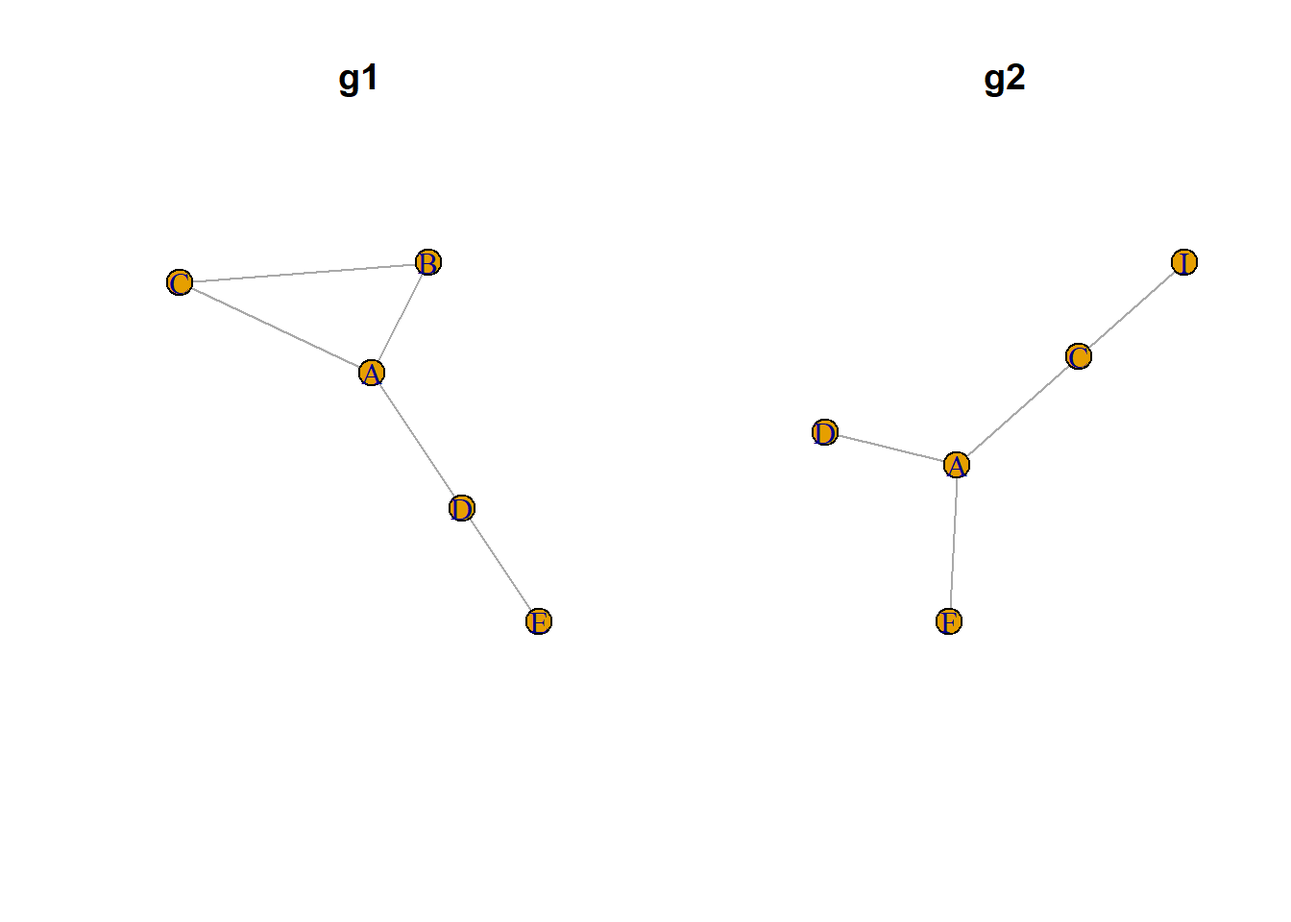
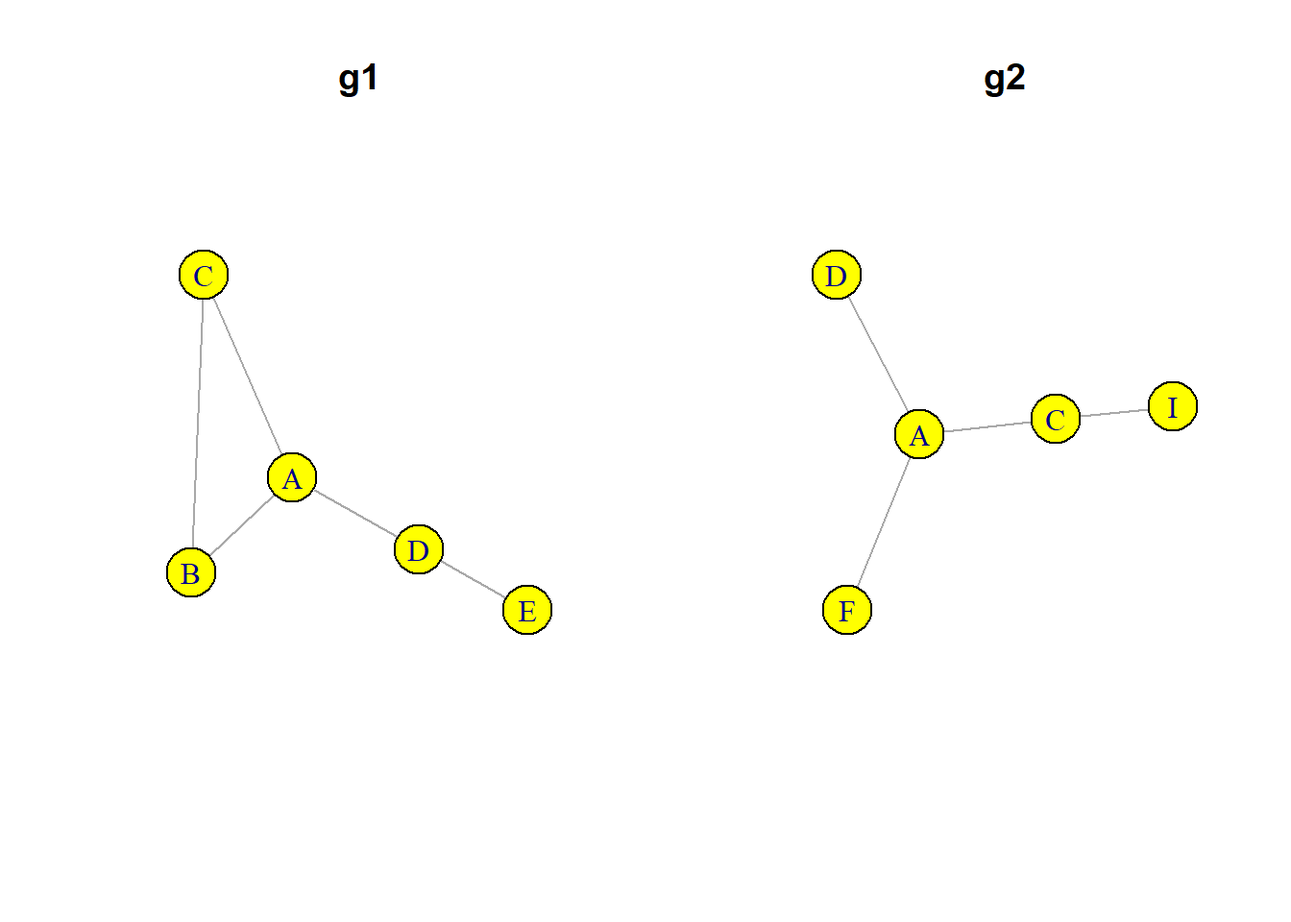
test quarto

diff --git a/2023_05_combi-igraph.html b/2023_05_combi-igraph.html
@@ -98,6 +98,7 @@ code span.wa { color: #60a0b0; font-weight: bold; font-style: italic; } /* Warni
 <link href="2023_05_combi-igraph_files/libs/bootstrap/bootstrap-icons.css" rel="stylesheet">
 <link href="2023_05_combi-igraph_files/libs/bootstrap/bootstrap.min.css" rel="stylesheet" id="quarto-bootstrap" data-mode="light">
 
+  <script src="https://cdn.jsdelivr.net/npm/mathjax@3/es5/tex-chtml-full.js" type="text/javascript"></script>
 
 </head>
 
@@ -130,15 +131,15 @@ code span.wa { color: #60a0b0; font-weight: bold; font-style: italic; } /* Warni
 
 </header>
 
-<p>Actualisation d’un billet de juin 2015 posté sur (https://groupefmr.hypotheses.org)</p>
-<section id="deux-réseaux" class="level2">
-<h2 class="anchored" data-anchor-id="deux-réseaux">Deux réseaux</h2>
+<p><em>Actualisation d’un billet de juin 2015 posté sur (https://groupefmr.hypotheses.org)</em></p>
+<p>Ce tutoriel décrit les fonctions d’<code>igraph</code> permet de combiner deux réseaux ayant <em>a minima</em> un sommet commun.</p>
+<p>Soit deux petits réseaux non orientés ayant trois sommets (A, C, D) et deux liens (AC, AD) en commun.</p>
 <div class="cell">
 <div class="sourceCode cell-code" id="cb1"><pre class="sourceCode r code-with-copy"><code class="sourceCode r"><span id="cb1-1"><a href="#cb1-1" aria-hidden="true" tabindex="-1"></a><span class="co"># Chargement du package</span></span>
 <span id="cb1-2"><a href="#cb1-2" aria-hidden="true" tabindex="-1"></a><span class="co"># install.packages("igraph")</span></span>
 <span id="cb1-3"><a href="#cb1-3" aria-hidden="true" tabindex="-1"></a><span class="fu">library</span>(igraph)</span>
 <span id="cb1-4"><a href="#cb1-4" aria-hidden="true" tabindex="-1"></a></span>
-<span id="cb1-5"><a href="#cb1-5" aria-hidden="true" tabindex="-1"></a><span class="co">#création des deux graphes</span></span>
+<span id="cb1-5"><a href="#cb1-5" aria-hidden="true" tabindex="-1"></a><span class="co"># Création des deux réseaux</span></span>
 <span id="cb1-6"><a href="#cb1-6" aria-hidden="true" tabindex="-1"></a>d1 <span class="ot">&lt;-</span> <span class="fu">rbind</span>(<span class="fu">c</span>(<span class="st">"A"</span>,<span class="st">"B"</span>),<span class="fu">c</span>(<span class="st">"A"</span>,<span class="st">"C"</span>), <span class="fu">c</span>(<span class="st">"B"</span>,<span class="st">"C"</span>), <span class="fu">c</span>(<span class="st">"A"</span>,<span class="st">"D"</span>), <span class="fu">c</span>(<span class="st">"D"</span>,<span class="st">"E"</span>))</span>
 <span id="cb1-7"><a href="#cb1-7" aria-hidden="true" tabindex="-1"></a>d2 <span class="ot">&lt;-</span> <span class="fu">rbind</span>(<span class="fu">c</span>(<span class="st">"A"</span>,<span class="st">"F"</span>), <span class="fu">c</span>(<span class="st">"A"</span>,<span class="st">"D"</span>), <span class="fu">c</span>(<span class="st">"A"</span>,<span class="st">"C"</span>), <span class="fu">c</span>(<span class="st">"C"</span>,<span class="st">"I"</span>))</span>
 <span id="cb1-8"><a href="#cb1-8" aria-hidden="true" tabindex="-1"></a></span>
@@ -147,8 +148,8 @@ code span.wa { color: #60a0b0; font-weight: bold; font-style: italic; } /* Warni
 <span id="cb1-11"><a href="#cb1-11" aria-hidden="true" tabindex="-1"></a></span>
 <span id="cb1-12"><a href="#cb1-12" aria-hidden="true" tabindex="-1"></a><span class="co">#visualisation</span></span>
 <span id="cb1-13"><a href="#cb1-13" aria-hidden="true" tabindex="-1"></a><span class="fu">par</span>(<span class="at">mfrow =</span> <span class="fu">c</span>(<span class="dv">1</span>,<span class="dv">2</span>))</span>
-<span id="cb1-14"><a href="#cb1-14" aria-hidden="true" tabindex="-1"></a><span class="fu">plot</span>(g1, <span class="at">main =</span> <span class="st">"g1"</span>)</span>
-<span id="cb1-15"><a href="#cb1-15" aria-hidden="true" tabindex="-1"></a><span class="fu">plot</span>(g2, <span class="at">main =</span> <span class="st">"g2"</span>)</span></code><button title="Copy to Clipboard" class="code-copy-button"><i class="bi"></i></button></pre></div>
+<span id="cb1-14"><a href="#cb1-14" aria-hidden="true" tabindex="-1"></a><span class="fu">plot</span>(g1, <span class="at">vertex.color =</span> <span class="st">"yellow"</span>, <span class="at">vertex.size =</span> <span class="dv">30</span>, <span class="at">main =</span> <span class="st">"g1"</span>)</span>
+<span id="cb1-15"><a href="#cb1-15" aria-hidden="true" tabindex="-1"></a><span class="fu">plot</span>(g2, <span class="at">vertex.color =</span> <span class="st">"yellow"</span>, <span class="at">vertex.size =</span> <span class="dv">30</span>, <span class="at">main =</span> <span class="st">"g2"</span>)</span></code><button title="Copy to Clipboard" class="code-copy-button"><i class="bi"></i></button></pre></div>
 <div class="cell-output-display">
 <p><img src="2023_05_combi-igraph_files/figure-html/unnamed-chunk-1-1.png" class="img-fluid" width="672"></p>
 </div>
@@ -159,106 +160,106 @@ code span.wa { color: #60a0b0; font-weight: bold; font-style: italic; } /* Warni
           1 </code></pre>
 </div>
 </div>
+<p>J’ajoute des attributs à ces deux réseaux : le degré des sommets, l’intermédiarité des liens et la densité du réseau.</p>
 <div class="cell">
-<div class="sourceCode cell-code" id="cb3"><pre class="sourceCode r code-with-copy"><code class="sourceCode r"><span id="cb3-1"><a href="#cb3-1" aria-hidden="true" tabindex="-1"></a><span class="co">#3 points communs (ACD) et deux liens communs (AD et AC)</span></span>
-<span id="cb3-2"><a href="#cb3-2" aria-hidden="true" tabindex="-1"></a></span>
-<span id="cb3-3"><a href="#cb3-3" aria-hidden="true" tabindex="-1"></a><span class="co">#ajout d'attributs : degré des sommets</span></span>
-<span id="cb3-4"><a href="#cb3-4" aria-hidden="true" tabindex="-1"></a><span class="fu">V</span>(g1)<span class="sc">$</span>degree <span class="ot">&lt;-</span>  <span class="fu">degree</span>(g1)</span>
-<span id="cb3-5"><a href="#cb3-5" aria-hidden="true" tabindex="-1"></a><span class="fu">V</span>(g2)<span class="sc">$</span>degree <span class="ot">&lt;-</span> <span class="fu">degree</span>(g2)</span>
+<div class="sourceCode cell-code" id="cb3"><pre class="sourceCode r code-with-copy"><code class="sourceCode r"><span id="cb3-1"><a href="#cb3-1" aria-hidden="true" tabindex="-1"></a><span class="fu">V</span>(g1)<span class="sc">$</span>degree <span class="ot">&lt;-</span>  <span class="fu">degree</span>(g1)</span>
+<span id="cb3-2"><a href="#cb3-2" aria-hidden="true" tabindex="-1"></a><span class="fu">V</span>(g2)<span class="sc">$</span>degree <span class="ot">&lt;-</span> <span class="fu">degree</span>(g2)</span>
+<span id="cb3-3"><a href="#cb3-3" aria-hidden="true" tabindex="-1"></a></span>
+<span id="cb3-4"><a href="#cb3-4" aria-hidden="true" tabindex="-1"></a><span class="fu">E</span>(g1)<span class="sc">$</span>between <span class="ot">&lt;-</span> <span class="fu">edge.betweenness</span>(g1)</span>
+<span id="cb3-5"><a href="#cb3-5" aria-hidden="true" tabindex="-1"></a><span class="fu">E</span>(g2)<span class="sc">$</span>between <span class="ot">&lt;-</span> <span class="fu">edge.betweenness</span>(g2)</span>
 <span id="cb3-6"><a href="#cb3-6" aria-hidden="true" tabindex="-1"></a></span>
-<span id="cb3-7"><a href="#cb3-7" aria-hidden="true" tabindex="-1"></a><span class="co">#ajout d'attributs aux liens (intermédiarité)</span></span>
-<span id="cb3-8"><a href="#cb3-8" aria-hidden="true" tabindex="-1"></a><span class="fu">E</span>(g1)<span class="sc">$</span>between <span class="ot">&lt;-</span> <span class="fu">edge.betweenness</span>(g1)</span>
-<span id="cb3-9"><a href="#cb3-9" aria-hidden="true" tabindex="-1"></a><span class="fu">E</span>(g2)<span class="sc">$</span>between <span class="ot">&lt;-</span> <span class="fu">edge.betweenness</span>(g2)</span>
-<span id="cb3-10"><a href="#cb3-10" aria-hidden="true" tabindex="-1"></a></span>
-<span id="cb3-11"><a href="#cb3-11" aria-hidden="true" tabindex="-1"></a><span class="co"># ajout d'attributs au réseau : densité</span></span>
-<span id="cb3-12"><a href="#cb3-12" aria-hidden="true" tabindex="-1"></a>g1<span class="sc">$</span>densite <span class="ot">&lt;-</span> <span class="fu">graph.density</span>(g1)</span>
-<span id="cb3-13"><a href="#cb3-13" aria-hidden="true" tabindex="-1"></a>g2<span class="sc">$</span>densite <span class="ot">&lt;-</span> <span class="fu">graph.density</span>(g2)</span>
-<span id="cb3-14"><a href="#cb3-14" aria-hidden="true" tabindex="-1"></a></span>
-<span id="cb3-15"><a href="#cb3-15" aria-hidden="true" tabindex="-1"></a><span class="co"># fonction complementer</span></span>
-<span id="cb3-16"><a href="#cb3-16" aria-hidden="true" tabindex="-1"></a><span class="co"># crée un graphe avec les liens absents du graphe de départ</span></span>
-<span id="cb3-17"><a href="#cb3-17" aria-hidden="true" tabindex="-1"></a><span class="co"># les liens présents au départ sont eux supprimés</span></span>
-<span id="cb3-18"><a href="#cb3-18" aria-hidden="true" tabindex="-1"></a>compg1 <span class="ot">&lt;-</span> <span class="fu">graph.complementer</span>(g1, <span class="at">loops =</span> <span class="cn">FALSE</span>)</span>
-<span id="cb3-19"><a href="#cb3-19" aria-hidden="true" tabindex="-1"></a><span class="fu">plot</span>(compg1)</span></code><button title="Copy to Clipboard" class="code-copy-button"><i class="bi"></i></button></pre></div>
-<div class="cell-output-display">
-<p><img src="2023_05_combi-igraph_files/figure-html/unnamed-chunk-3-1.png" class="img-fluid" width="672"></p>
+<span id="cb3-7"><a href="#cb3-7" aria-hidden="true" tabindex="-1"></a>g1<span class="sc">$</span>densite <span class="ot">&lt;-</span> <span class="fu">graph.density</span>(g1)</span>
+<span id="cb3-8"><a href="#cb3-8" aria-hidden="true" tabindex="-1"></a>g2<span class="sc">$</span>densite <span class="ot">&lt;-</span> <span class="fu">graph.density</span>(g2)</span></code><button title="Copy to Clipboard" class="code-copy-button"><i class="bi"></i></button></pre></div>
 </div>
-<div class="sourceCode cell-code" id="cb4"><pre class="sourceCode r code-with-copy"><code class="sourceCode r"><span id="cb4-1"><a href="#cb4-1" aria-hidden="true" tabindex="-1"></a><span class="co">#les attributs des sommets et du graphe sont conservés</span></span>
-<span id="cb4-2"><a href="#cb4-2" aria-hidden="true" tabindex="-1"></a><span class="co">#les attributs des liens sont perdus</span></span>
-<span id="cb4-3"><a href="#cb4-3" aria-hidden="true" tabindex="-1"></a><span class="fu">V</span>(compg1)<span class="sc">$</span>degree</span></code><button title="Copy to Clipboard" class="code-copy-button"><i class="bi"></i></button></pre></div>
+<p>La fonction <code>complementer</code> permet de créer le graphe complémentaire (ou inverse) d’un graphe. Le graphe complémentaire <span class="math inline">\(G'\)</span> du graphe <span class="math inline">\(G\)</span> a les mêmes sommets ; deux sommets de <span class="math inline">\(G'\)</span> sont adjacents si et seulement si ils ne sont pas adjacents dans <span class="math inline">\(G\)</span>. Ceci peut être utile quand on étudie des réseaux denses pour mettre en évidence l’absence de relation.</p>
+<div class="cell">
+<div class="sourceCode cell-code" id="cb4"><pre class="sourceCode r code-with-copy"><code class="sourceCode r"><span id="cb4-1"><a href="#cb4-1" aria-hidden="true" tabindex="-1"></a><span class="co"># fonction complementer</span></span>
+<span id="cb4-2"><a href="#cb4-2" aria-hidden="true" tabindex="-1"></a><span class="co"># crée un graphe avec les liens absents du graphe de départ</span></span>
+<span id="cb4-3"><a href="#cb4-3" aria-hidden="true" tabindex="-1"></a><span class="co"># les liens présents au départ sont eux supprimés</span></span>
+<span id="cb4-4"><a href="#cb4-4" aria-hidden="true" tabindex="-1"></a>compg1 <span class="ot">&lt;-</span> <span class="fu">graph.complementer</span>(g1, <span class="at">loops =</span> <span class="cn">FALSE</span>)</span>
+<span id="cb4-5"><a href="#cb4-5" aria-hidden="true" tabindex="-1"></a><span class="fu">plot</span>(compg1)</span></code><button title="Copy to Clipboard" class="code-copy-button"><i class="bi"></i></button></pre></div>
+<div class="cell-output-display">
+<p><img src="2023_05_combi-igraph_files/figure-html/unnamed-chunk-4-1.png" class="img-fluid" width="672"></p>
+</div>
+<div class="sourceCode cell-code" id="cb5"><pre class="sourceCode r code-with-copy"><code class="sourceCode r"><span id="cb5-1"><a href="#cb5-1" aria-hidden="true" tabindex="-1"></a><span class="co">#les attributs des sommets et du graphe sont conservés</span></span>
+<span id="cb5-2"><a href="#cb5-2" aria-hidden="true" tabindex="-1"></a><span class="co">#les attributs des liens sont perdus</span></span>
+<span id="cb5-3"><a href="#cb5-3" aria-hidden="true" tabindex="-1"></a><span class="fu">V</span>(compg1)<span class="sc">$</span>degree</span></code><button title="Copy to Clipboard" class="code-copy-button"><i class="bi"></i></button></pre></div>
 <div class="cell-output cell-output-stdout">
 <pre><code>[1] 3 2 2 2 1</code></pre>
 </div>
-<div class="sourceCode cell-code" id="cb6"><pre class="sourceCode r code-with-copy"><code class="sourceCode r"><span id="cb6-1"><a href="#cb6-1" aria-hidden="true" tabindex="-1"></a>compg1</span></code><button title="Copy to Clipboard" class="code-copy-button"><i class="bi"></i></button></pre></div>
+<div class="sourceCode cell-code" id="cb7"><pre class="sourceCode r code-with-copy"><code class="sourceCode r"><span id="cb7-1"><a href="#cb7-1" aria-hidden="true" tabindex="-1"></a>compg1</span></code><button title="Copy to Clipboard" class="code-copy-button"><i class="bi"></i></button></pre></div>
 <div class="cell-output cell-output-stdout">
-<pre><code>IGRAPH 840543b UN-- 5 5 -- 
+<pre><code>IGRAPH da2417b UN-- 5 5 -- 
 + attr: densite (g/n), name (v/c), degree (v/n)
-+ edges from 840543b (vertex names):
++ edges from da2417b (vertex names):
 [1] A--E B--E B--D D--C C--E</code></pre>
 </div>
-<div class="sourceCode cell-code" id="cb8"><pre class="sourceCode r code-with-copy"><code class="sourceCode r"><span id="cb8-1"><a href="#cb8-1" aria-hidden="true" tabindex="-1"></a><span class="co">#fonction graph.difference premier réseau - deuxième réseau (opérateur %m%)</span></span>
-<span id="cb8-2"><a href="#cb8-2" aria-hidden="true" tabindex="-1"></a><span class="co">#seuls les liens présents dans le premier réseau et non dans le deuxième sont conservés</span></span>
-<span id="cb8-3"><a href="#cb8-3" aria-hidden="true" tabindex="-1"></a><span class="co">#tous les attributs du premier réseau sont gardés</span></span>
-<span id="cb8-4"><a href="#cb8-4" aria-hidden="true" tabindex="-1"></a>diffg1 <span class="ot">&lt;-</span> <span class="fu">graph.difference</span>(g1, g2)</span>
-<span id="cb8-5"><a href="#cb8-5" aria-hidden="true" tabindex="-1"></a>diffg1</span></code><button title="Copy to Clipboard" class="code-copy-button"><i class="bi"></i></button></pre></div>
+<div class="sourceCode cell-code" id="cb9"><pre class="sourceCode r code-with-copy"><code class="sourceCode r"><span id="cb9-1"><a href="#cb9-1" aria-hidden="true" tabindex="-1"></a><span class="co">#fonction graph.difference premier réseau - deuxième réseau (opérateur %m%)</span></span>
+<span id="cb9-2"><a href="#cb9-2" aria-hidden="true" tabindex="-1"></a><span class="co">#seuls les liens présents dans le premier réseau et non dans le deuxième sont conservés</span></span>
+<span id="cb9-3"><a href="#cb9-3" aria-hidden="true" tabindex="-1"></a><span class="co">#tous les attributs du premier réseau sont gardés</span></span>
+<span id="cb9-4"><a href="#cb9-4" aria-hidden="true" tabindex="-1"></a>diffg1 <span class="ot">&lt;-</span> <span class="fu">graph.difference</span>(g1, g2)</span>
+<span id="cb9-5"><a href="#cb9-5" aria-hidden="true" tabindex="-1"></a>diffg1</span></code><button title="Copy to Clipboard" class="code-copy-button"><i class="bi"></i></button></pre></div>
 <div class="cell-output cell-output-stdout">
-<pre><code>IGRAPH 8407202 UN-- 5 3 -- 
+<pre><code>IGRAPH da25f88 UN-- 5 3 -- 
 + attr: densite (g/n), name (v/c), degree (v/n), between (e/n)
-+ edges from 8407202 (vertex names):
++ edges from da25f88 (vertex names):
 [1] A--B B--C D--E</code></pre>
 </div>
-<div class="sourceCode cell-code" id="cb10"><pre class="sourceCode r code-with-copy"><code class="sourceCode r"><span id="cb10-1"><a href="#cb10-1" aria-hidden="true" tabindex="-1"></a>diffg2 <span class="ot">&lt;-</span> <span class="fu">graph.difference</span>(g2, g1)</span>
-<span id="cb10-2"><a href="#cb10-2" aria-hidden="true" tabindex="-1"></a></span>
-<span id="cb10-3"><a href="#cb10-3" aria-hidden="true" tabindex="-1"></a><span class="co"># coordonnées (quasi) identiques pour faciliter la comparaison</span></span>
-<span id="cb10-4"><a href="#cb10-4" aria-hidden="true" tabindex="-1"></a>lay <span class="ot">&lt;-</span> <span class="fu">layout.fruchterman.reingold</span>(g1)</span>
-<span id="cb10-5"><a href="#cb10-5" aria-hidden="true" tabindex="-1"></a></span>
-<span id="cb10-6"><a href="#cb10-6" aria-hidden="true" tabindex="-1"></a><span class="co"># lien A-D présent dans g1 et g2 donc g1-g2 et g2-g1 entrainent sa disparition</span></span>
-<span id="cb10-7"><a href="#cb10-7" aria-hidden="true" tabindex="-1"></a><span class="fu">par</span>(<span class="at">mfrow =</span> <span class="fu">c</span>(<span class="dv">2</span>,<span class="dv">2</span>))</span>
-<span id="cb10-8"><a href="#cb10-8" aria-hidden="true" tabindex="-1"></a><span class="fu">plot</span>(g1, <span class="at">main =</span> <span class="st">"g1"</span>, <span class="at">layout =</span> lay, <span class="at">vertex.color =</span> <span class="st">"red"</span>, <span class="at">vertex.size =</span> <span class="dv">20</span>, <span class="at">vertex.label.dist =</span><span class="dv">3</span>)</span>
-<span id="cb10-9"><a href="#cb10-9" aria-hidden="true" tabindex="-1"></a><span class="fu">plot</span>(g2, <span class="at">main =</span> <span class="st">"g2"</span>, <span class="at">layout =</span> lay, <span class="at">vertex.color =</span> <span class="st">"red"</span>, <span class="at">vertex.size =</span> <span class="dv">20</span>, <span class="at">vertex.label.dist =</span><span class="dv">3</span>)</span>
-<span id="cb10-10"><a href="#cb10-10" aria-hidden="true" tabindex="-1"></a><span class="fu">plot</span>(diffg1, <span class="at">main =</span> <span class="st">"graph.difference(g1, g2)"</span>, <span class="at">layout =</span> lay, <span class="at">vertex.color =</span> <span class="st">"red"</span>, <span class="at">vertex.size =</span> <span class="dv">20</span>, <span class="at">vertex.label.dist =</span><span class="dv">3</span>)</span>
-<span id="cb10-11"><a href="#cb10-11" aria-hidden="true" tabindex="-1"></a><span class="fu">plot</span>(diffg2, <span class="at">main =</span> <span class="st">"graph.difference(g2, g1)"</span>, <span class="at">layout =</span> lay, <span class="at">vertex.color =</span> <span class="st">"red"</span>, <span class="at">vertex.size =</span> <span class="dv">20</span>, <span class="at">vertex.label.dist =</span><span class="dv">3</span>)</span></code><button title="Copy to Clipboard" class="code-copy-button"><i class="bi"></i></button></pre></div>
+<div class="sourceCode cell-code" id="cb11"><pre class="sourceCode r code-with-copy"><code class="sourceCode r"><span id="cb11-1"><a href="#cb11-1" aria-hidden="true" tabindex="-1"></a>diffg2 <span class="ot">&lt;-</span> <span class="fu">graph.difference</span>(g2, g1)</span>
+<span id="cb11-2"><a href="#cb11-2" aria-hidden="true" tabindex="-1"></a></span>
+<span id="cb11-3"><a href="#cb11-3" aria-hidden="true" tabindex="-1"></a><span class="co"># coordonnées (quasi) identiques pour faciliter la comparaison</span></span>
+<span id="cb11-4"><a href="#cb11-4" aria-hidden="true" tabindex="-1"></a>lay <span class="ot">&lt;-</span> <span class="fu">layout.fruchterman.reingold</span>(g1)</span>
+<span id="cb11-5"><a href="#cb11-5" aria-hidden="true" tabindex="-1"></a></span>
+<span id="cb11-6"><a href="#cb11-6" aria-hidden="true" tabindex="-1"></a><span class="co"># lien A-D présent dans g1 et g2 donc g1-g2 et g2-g1 entrainent sa disparition</span></span>
+<span id="cb11-7"><a href="#cb11-7" aria-hidden="true" tabindex="-1"></a><span class="fu">par</span>(<span class="at">mfrow =</span> <span class="fu">c</span>(<span class="dv">2</span>,<span class="dv">2</span>))</span>
+<span id="cb11-8"><a href="#cb11-8" aria-hidden="true" tabindex="-1"></a><span class="fu">plot</span>(g1, <span class="at">main =</span> <span class="st">"g1"</span>, <span class="at">layout =</span> lay, <span class="at">vertex.color =</span> <span class="st">"red"</span>, <span class="at">vertex.size =</span> <span class="dv">20</span>, <span class="at">vertex.label.dist =</span><span class="dv">3</span>)</span>
+<span id="cb11-9"><a href="#cb11-9" aria-hidden="true" tabindex="-1"></a><span class="fu">plot</span>(g2, <span class="at">main =</span> <span class="st">"g2"</span>, <span class="at">layout =</span> lay, <span class="at">vertex.color =</span> <span class="st">"red"</span>, <span class="at">vertex.size =</span> <span class="dv">20</span>, <span class="at">vertex.label.dist =</span><span class="dv">3</span>)</span>
+<span id="cb11-10"><a href="#cb11-10" aria-hidden="true" tabindex="-1"></a><span class="fu">plot</span>(diffg1, <span class="at">main =</span> <span class="st">"graph.difference(g1, g2)"</span>, <span class="at">layout =</span> lay, <span class="at">vertex.color =</span> <span class="st">"red"</span>, <span class="at">vertex.size =</span> <span class="dv">20</span>, <span class="at">vertex.label.dist =</span><span class="dv">3</span>)</span>
+<span id="cb11-11"><a href="#cb11-11" aria-hidden="true" tabindex="-1"></a><span class="fu">plot</span>(diffg2, <span class="at">main =</span> <span class="st">"graph.difference(g2, g1)"</span>, <span class="at">layout =</span> lay, <span class="at">vertex.color =</span> <span class="st">"red"</span>, <span class="at">vertex.size =</span> <span class="dv">20</span>, <span class="at">vertex.label.dist =</span><span class="dv">3</span>)</span></code><button title="Copy to Clipboard" class="code-copy-button"><i class="bi"></i></button></pre></div>
 <div class="cell-output-display">
-<p><img src="2023_05_combi-igraph_files/figure-html/unnamed-chunk-3-2.png" class="img-fluid" width="672"></p>
+<p><img src="2023_05_combi-igraph_files/figure-html/unnamed-chunk-4-2.png" class="img-fluid" width="672"></p>
 </div>
-<div class="sourceCode cell-code" id="cb11"><pre class="sourceCode r code-with-copy"><code class="sourceCode r"><span id="cb11-1"><a href="#cb11-1" aria-hidden="true" tabindex="-1"></a><span class="fu">dev.off</span>()</span></code><button title="Copy to Clipboard" class="code-copy-button"><i class="bi"></i></button></pre></div>
+<div class="sourceCode cell-code" id="cb12"><pre class="sourceCode r code-with-copy"><code class="sourceCode r"><span id="cb12-1"><a href="#cb12-1" aria-hidden="true" tabindex="-1"></a><span class="fu">dev.off</span>()</span></code><button title="Copy to Clipboard" class="code-copy-button"><i class="bi"></i></button></pre></div>
 <div class="cell-output cell-output-stdout">
 <pre><code>null device 
           1 </code></pre>
 </div>
-<div class="sourceCode cell-code" id="cb13"><pre class="sourceCode r code-with-copy"><code class="sourceCode r"><span id="cb13-1"><a href="#cb13-1" aria-hidden="true" tabindex="-1"></a><span class="co">#calculer degré actualisé</span></span>
-<span id="cb13-2"><a href="#cb13-2" aria-hidden="true" tabindex="-1"></a><span class="fu">V</span>(diffg1)<span class="sc">$</span>degree2 <span class="ot">&lt;-</span> <span class="fu">degree</span>(diffg1)</span>
-<span id="cb13-3"><a href="#cb13-3" aria-hidden="true" tabindex="-1"></a><span class="fu">V</span>(diffg1)<span class="sc">$</span>degree</span></code><button title="Copy to Clipboard" class="code-copy-button"><i class="bi"></i></button></pre></div>
+<div class="sourceCode cell-code" id="cb14"><pre class="sourceCode r code-with-copy"><code class="sourceCode r"><span id="cb14-1"><a href="#cb14-1" aria-hidden="true" tabindex="-1"></a><span class="co">#calculer degré actualisé</span></span>
+<span id="cb14-2"><a href="#cb14-2" aria-hidden="true" tabindex="-1"></a><span class="fu">V</span>(diffg1)<span class="sc">$</span>degree2 <span class="ot">&lt;-</span> <span class="fu">degree</span>(diffg1)</span>
+<span id="cb14-3"><a href="#cb14-3" aria-hidden="true" tabindex="-1"></a><span class="fu">V</span>(diffg1)<span class="sc">$</span>degree</span></code><button title="Copy to Clipboard" class="code-copy-button"><i class="bi"></i></button></pre></div>
 <div class="cell-output cell-output-stdout">
 <pre><code>[1] 3 2 2 2 1</code></pre>
 </div>
-<div class="sourceCode cell-code" id="cb15"><pre class="sourceCode r code-with-copy"><code class="sourceCode r"><span id="cb15-1"><a href="#cb15-1" aria-hidden="true" tabindex="-1"></a><span class="fu">V</span>(diffg1)<span class="sc">$</span>degree2</span></code><button title="Copy to Clipboard" class="code-copy-button"><i class="bi"></i></button></pre></div>
+<div class="sourceCode cell-code" id="cb16"><pre class="sourceCode r code-with-copy"><code class="sourceCode r"><span id="cb16-1"><a href="#cb16-1" aria-hidden="true" tabindex="-1"></a><span class="fu">V</span>(diffg1)<span class="sc">$</span>degree2</span></code><button title="Copy to Clipboard" class="code-copy-button"><i class="bi"></i></button></pre></div>
 <div class="cell-output cell-output-stdout">
 <pre><code>[1] 1 2 1 1 1</code></pre>
 </div>
-<div class="sourceCode cell-code" id="cb17"><pre class="sourceCode r code-with-copy"><code class="sourceCode r"><span id="cb17-1"><a href="#cb17-1" aria-hidden="true" tabindex="-1"></a><span class="co">#graph.disjoint.union pour joindre des graphes dont les sommets différents (opérateur %du%)</span></span>
-<span id="cb17-2"><a href="#cb17-2" aria-hidden="true" tabindex="-1"></a></span>
-<span id="cb17-3"><a href="#cb17-3" aria-hidden="true" tabindex="-1"></a><span class="co">#liens communs à deux graphes : conserve les attributs</span></span>
-<span id="cb17-4"><a href="#cb17-4" aria-hidden="true" tabindex="-1"></a><span class="co">#tous les sommets sont conservés (opérateur %s%)</span></span>
-<span id="cb17-5"><a href="#cb17-5" aria-hidden="true" tabindex="-1"></a>interg1 <span class="ot">&lt;-</span> <span class="fu">graph.intersection</span>(g1,g2, <span class="at">keep.all.vertices =</span> <span class="cn">TRUE</span>)</span>
-<span id="cb17-6"><a href="#cb17-6" aria-hidden="true" tabindex="-1"></a></span>
-<span id="cb17-7"><a href="#cb17-7" aria-hidden="true" tabindex="-1"></a><span class="co">#seuls sommets adjacents aux liens communs sont gardés (ici ACD)</span></span>
-<span id="cb17-8"><a href="#cb17-8" aria-hidden="true" tabindex="-1"></a>interg2 <span class="ot">&lt;-</span> <span class="fu">graph.intersection</span>(g1,g2, <span class="at">keep.all.vertices =</span> <span class="cn">FALSE</span>)</span>
-<span id="cb17-9"><a href="#cb17-9" aria-hidden="true" tabindex="-1"></a></span>
-<span id="cb17-10"><a href="#cb17-10" aria-hidden="true" tabindex="-1"></a><span class="fu">par</span>(<span class="at">mfrow =</span> <span class="fu">c</span>(<span class="dv">1</span>,<span class="dv">2</span>))</span>
-<span id="cb17-11"><a href="#cb17-11" aria-hidden="true" tabindex="-1"></a><span class="fu">plot</span>(interg1, <span class="at">sub =</span> <span class="st">"graph.intersection(g1,g2,</span><span class="sc">\n</span><span class="st">keep.all.vertices = TRUE)"</span>)</span>
-<span id="cb17-12"><a href="#cb17-12" aria-hidden="true" tabindex="-1"></a><span class="fu">plot</span>(interg2, <span class="at">sub =</span> <span class="st">"graph.intersection(g1,g2,</span><span class="sc">\n</span><span class="st">keep.all.vertices = FALSE)"</span>)</span>
-<span id="cb17-13"><a href="#cb17-13" aria-hidden="true" tabindex="-1"></a><span class="fu">dev.off</span>()</span></code><button title="Copy to Clipboard" class="code-copy-button"><i class="bi"></i></button></pre></div>
+<div class="sourceCode cell-code" id="cb18"><pre class="sourceCode r code-with-copy"><code class="sourceCode r"><span id="cb18-1"><a href="#cb18-1" aria-hidden="true" tabindex="-1"></a><span class="co">#graph.disjoint.union pour joindre des graphes dont les sommets différents (opérateur %du%)</span></span>
+<span id="cb18-2"><a href="#cb18-2" aria-hidden="true" tabindex="-1"></a></span>
+<span id="cb18-3"><a href="#cb18-3" aria-hidden="true" tabindex="-1"></a><span class="co">#liens communs à deux graphes : conserve les attributs</span></span>
+<span id="cb18-4"><a href="#cb18-4" aria-hidden="true" tabindex="-1"></a><span class="co">#tous les sommets sont conservés (opérateur %s%)</span></span>
+<span id="cb18-5"><a href="#cb18-5" aria-hidden="true" tabindex="-1"></a>interg1 <span class="ot">&lt;-</span> <span class="fu">graph.intersection</span>(g1,g2, <span class="at">keep.all.vertices =</span> <span class="cn">TRUE</span>)</span>
+<span id="cb18-6"><a href="#cb18-6" aria-hidden="true" tabindex="-1"></a></span>
+<span id="cb18-7"><a href="#cb18-7" aria-hidden="true" tabindex="-1"></a><span class="co">#seuls sommets adjacents aux liens communs sont gardés (ici ACD)</span></span>
+<span id="cb18-8"><a href="#cb18-8" aria-hidden="true" tabindex="-1"></a>interg2 <span class="ot">&lt;-</span> <span class="fu">graph.intersection</span>(g1,g2, <span class="at">keep.all.vertices =</span> <span class="cn">FALSE</span>)</span>
+<span id="cb18-9"><a href="#cb18-9" aria-hidden="true" tabindex="-1"></a></span>
+<span id="cb18-10"><a href="#cb18-10" aria-hidden="true" tabindex="-1"></a><span class="fu">par</span>(<span class="at">mfrow =</span> <span class="fu">c</span>(<span class="dv">1</span>,<span class="dv">2</span>))</span>
+<span id="cb18-11"><a href="#cb18-11" aria-hidden="true" tabindex="-1"></a><span class="fu">plot</span>(interg1, <span class="at">sub =</span> <span class="st">"graph.intersection(g1,g2,</span><span class="sc">\n</span><span class="st">keep.all.vertices = TRUE)"</span>)</span>
+<span id="cb18-12"><a href="#cb18-12" aria-hidden="true" tabindex="-1"></a><span class="fu">plot</span>(interg2, <span class="at">sub =</span> <span class="st">"graph.intersection(g1,g2,</span><span class="sc">\n</span><span class="st">keep.all.vertices = FALSE)"</span>)</span>
+<span id="cb18-13"><a href="#cb18-13" aria-hidden="true" tabindex="-1"></a><span class="fu">dev.off</span>()</span></code><button title="Copy to Clipboard" class="code-copy-button"><i class="bi"></i></button></pre></div>
 <div class="cell-output cell-output-stdout">
 <pre><code>null device 
           1 </code></pre>
 </div>
-<div class="sourceCode cell-code" id="cb19"><pre class="sourceCode r code-with-copy"><code class="sourceCode r"><span id="cb19-1"><a href="#cb19-1" aria-hidden="true" tabindex="-1"></a><span class="co">#union de graphes : tout lien présent dans un moins un graphe</span></span>
-<span id="cb19-2"><a href="#cb19-2" aria-hidden="true" tabindex="-1"></a><span class="co">#sera dans le graphe produit - tous les attributs sont conservés</span></span>
-<span id="cb19-3"><a href="#cb19-3" aria-hidden="true" tabindex="-1"></a><span class="co">#ne crée pas de liens multiples</span></span>
-<span id="cb19-4"><a href="#cb19-4" aria-hidden="true" tabindex="-1"></a></span>
-<span id="cb19-5"><a href="#cb19-5" aria-hidden="true" tabindex="-1"></a>uniong <span class="ot">&lt;-</span> <span class="fu">graph.union</span>(g1,g2) <span class="co">#opérateur %u%</span></span></code><button title="Copy to Clipboard" class="code-copy-button"><i class="bi"></i></button></pre></div>
 </div>
-</section>
+<p>La fonction graph.union</p>
+<div class="cell">
+<div class="sourceCode cell-code" id="cb20"><pre class="sourceCode r code-with-copy"><code class="sourceCode r"><span id="cb20-1"><a href="#cb20-1" aria-hidden="true" tabindex="-1"></a><span class="co">#union de graphes : tout lien présent dans un moins un graphe</span></span>
+<span id="cb20-2"><a href="#cb20-2" aria-hidden="true" tabindex="-1"></a><span class="co">#sera dans le graphe produit - tous les attributs sont conservés</span></span>
+<span id="cb20-3"><a href="#cb20-3" aria-hidden="true" tabindex="-1"></a><span class="co">#ne crée pas de liens multiples</span></span>
+<span id="cb20-4"><a href="#cb20-4" aria-hidden="true" tabindex="-1"></a></span>
+<span id="cb20-5"><a href="#cb20-5" aria-hidden="true" tabindex="-1"></a>uniong <span class="ot">&lt;-</span> <span class="fu">graph.union</span>(g1,g2) <span class="co">#opérateur %u%</span></span></code><button title="Copy to Clipboard" class="code-copy-button"><i class="bi"></i></button></pre></div>
+</div>
 
 </main>
 <!-- /main column -->
